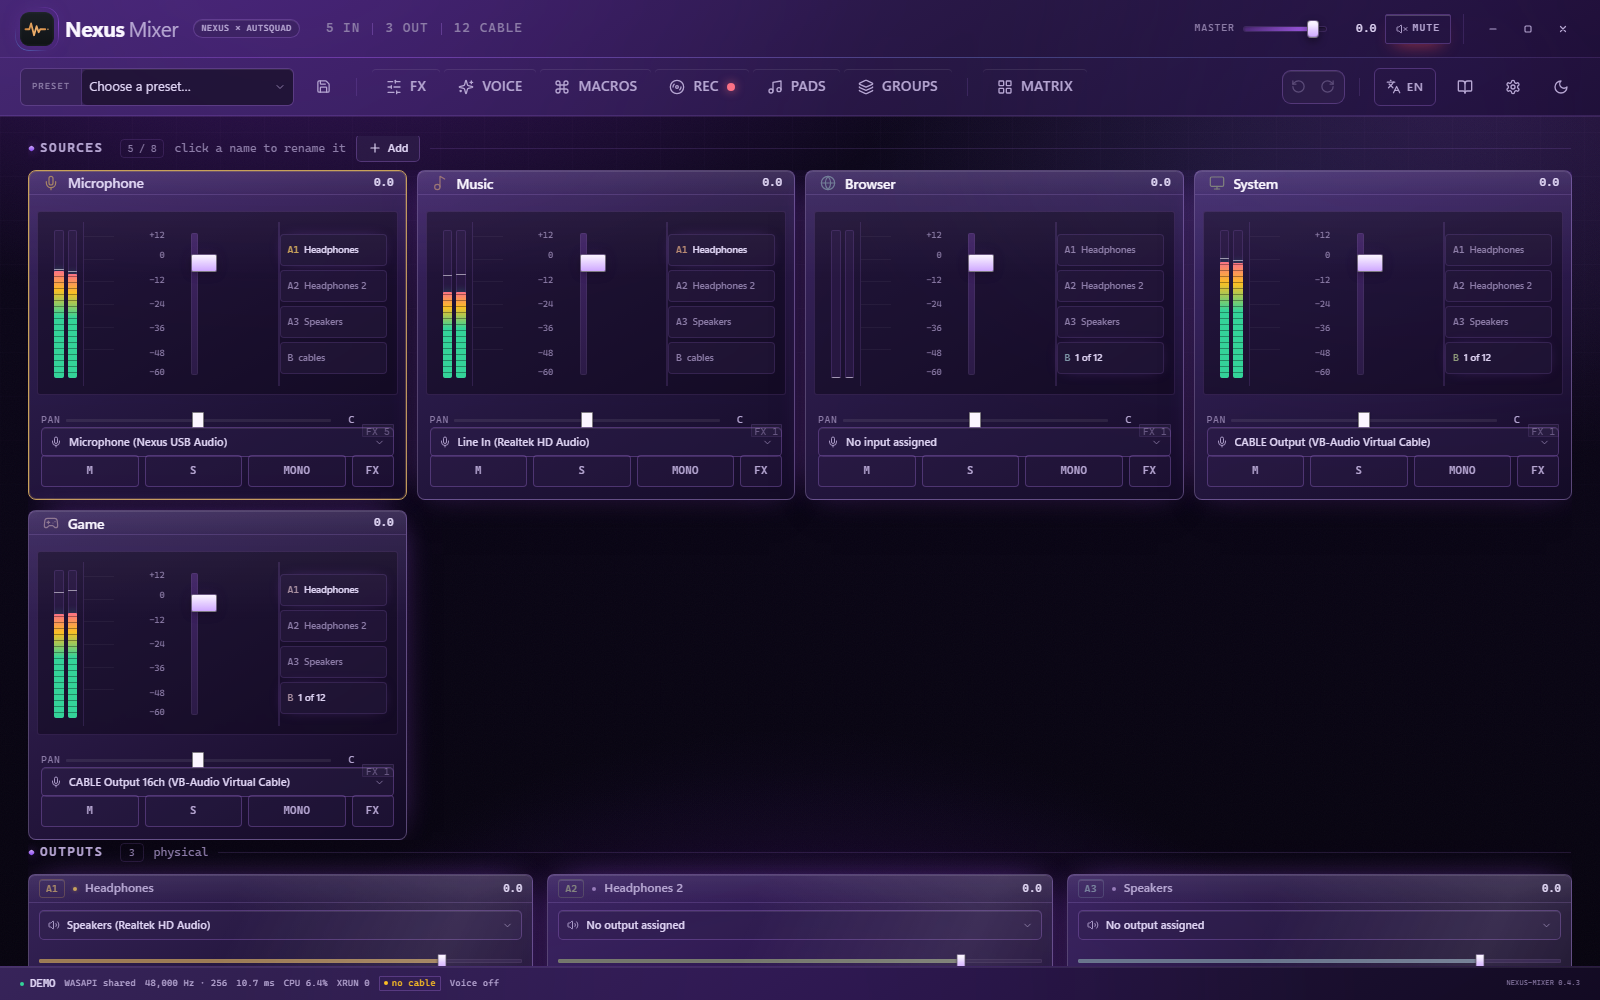
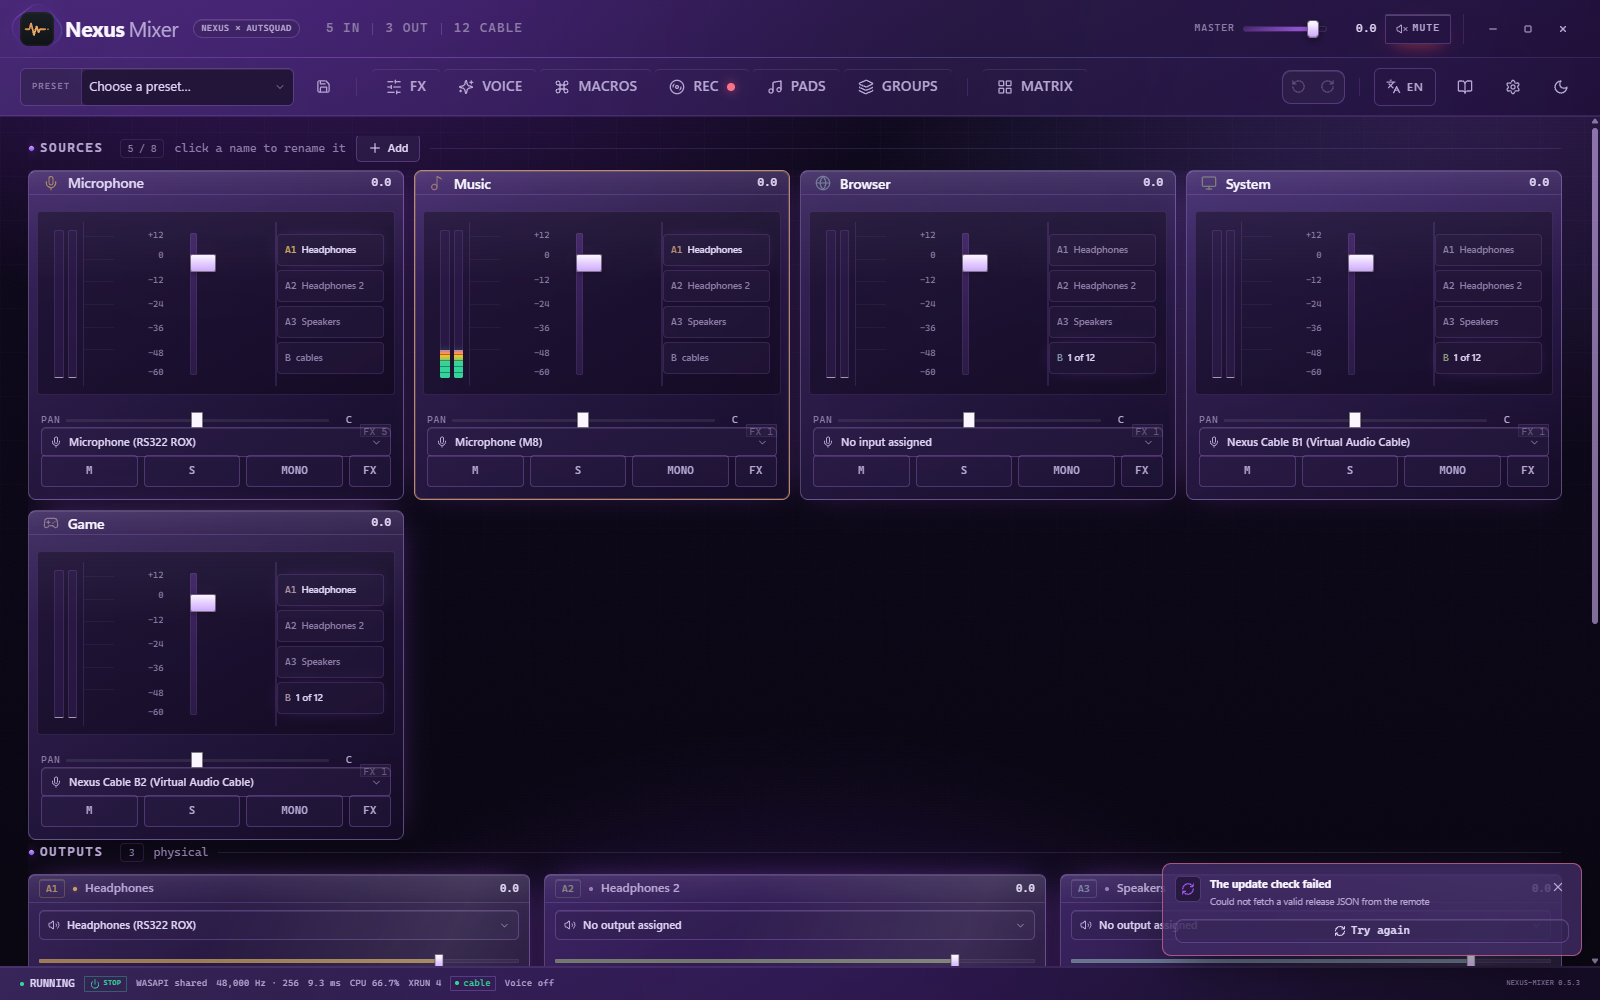
Mixer 0.5.3: английская плашка кабеля без русского текста, версия в интерфейсе 0.5.3, свежие скриншоты

diff --git a/src/components/SettingsDrawer.tsx b/src/components/SettingsDrawer.tsx
@@ -50,7 +50,7 @@ export function SettingsDrawer() {
           <Settings size={16} className="accent" />
           <div>
             <h2>{t('settings.title')}</h2>
-            <div className="sub">Nexus-Mixer · v0.4.3</div>
+            <div className="sub">Nexus-Mixer · v0.5.3</div>
           </div>
           <button
             type="button"
@@ -221,7 +221,9 @@ export function SettingsDrawer() {
               </div>
               <div className="d-text">
                 {status.driver.installed
-                  ? status.driver.message
+                  ? status.driver.cableEndpoints.length > 0
+                    ? t('settings.cableActiveText', { names: status.driver.cableEndpoints.join(', ') })
+                    : t('settings.cableInstalledNoDevices')
                   : t('settings.cableMissingText')}
                 <br /><br />
                 <RichText text={t('settings.cableWhat')} />
@@ -380,7 +382,7 @@ export function SettingsDrawer() {
               <p>{t('settings.aboutText')}</p>
               <div className="about-meta">
                 <span>{t('brand.sign')}</span>
-                <span>0.4.3 · Tauri 2 · Rust</span>
+                <span>0.5.3 · Tauri 2 · Rust</span>
               </div>
               <button
                 type="button"

diff --git a/src/i18n/ru/settings.ts b/src/i18n/ru/settings.ts
@@ -33,6 +33,9 @@ export const settings = {
     'Кабель не найден. Виртуальные шины работают в режиме эмуляции — звук остаётся внутри приложения.',
   'settings.cableWhat':
     '**Что это?** Каждый виртуальный кабель создаёт пару устройств: **Input** (куда Nexus отправляет звук) и **Output** (откуда приложения его забирают как микрофон).',
+  'settings.cableActiveText': 'Виртуальный кабель активен: {names}.',
+  'settings.cableInstalledNoDevices':
+    'Драйвер виртуального кабеля установлен, но его устройства не видны системе: проверьте Диспетчер устройств.',
   'settings.foundCables': 'Обнаруженные кабели:',
   'settings.cableN': 'кабель {n}',
   'settings.busMap': 'Назначение шин:',

diff --git a/src/i18n/en/settings.ts b/src/i18n/en/settings.ts
@@ -35,6 +35,9 @@ export const settings: Settings = {
     'Cable not found. The virtual buses run in emulation mode — the audio stays inside the app.',
   'settings.cableWhat':
     '**What is it?** Every virtual cable creates a pair of devices: **Input** (where Nexus sends audio) and **Output** (where apps pick it up as a microphone).',
+  'settings.cableActiveText': 'Virtual cable active: {names}.',
+  'settings.cableInstalledNoDevices':
+    'The virtual cable driver is installed, but its devices are not visible to the system: check Device Manager.',
   'settings.foundCables': 'Detected cables:',
   'settings.cableN': 'cable {n}',
   'settings.busMap': 'Bus assignment:',

diff --git a/src/components/StatusBar.tsx b/src/components/StatusBar.tsx
@@ -83,7 +83,7 @@ export function StatusBar() {
       </span>
 
       <span className="status-spacer" />
-      <span className="status-signature">Nexus-Mixer 0.4.3</span>
+      <span className="status-signature">Nexus-Mixer 0.5.3</span>
     </footer>
   )
 }

diff --git a/src-tauri/src/engine/driver.rs b/src-tauri/src/engine/driver.rs
@@ -65,16 +65,19 @@ fn probe() -> DriverStatus {
         .map(|(name, _)| name.clone())
         .collect();
 
+    // Технический статус для подсказки в статус-баре. Пользовательские
+    // формулировки живут в i18n (settings.cableActiveText и соседние ключи),
+    // иначе русский текст протекал в английский интерфейс.
     let message = if !installed {
-        "Виртуальный кабель не найден. Установите Virtual Audio Cable (VAC) или VB-CABLE, чтобы виртуальные шины получили \
-         собственные устройства вывода и ввода."
+        "Virtual cable not found: install Virtual Audio Cable (VAC) or VB-CABLE so the \
+         virtual buses get their own output and input devices."
             .into()
     } else if cable_names.is_empty() {
-        "Драйвер виртуального кабеля установлен, но его устройства не видны системе: \
-         проверьте Диспетчер устройств."
+        "The virtual cable driver is installed, but its devices are not visible to the system: \
+         check Device Manager."
             .into()
     } else {
-        format!("Виртуальный кабель активен: {}.", cable_names.join(", "))
+        format!("Virtual cable active: {}.", cable_names.join(", "))
     };
 
     DriverStatus {
